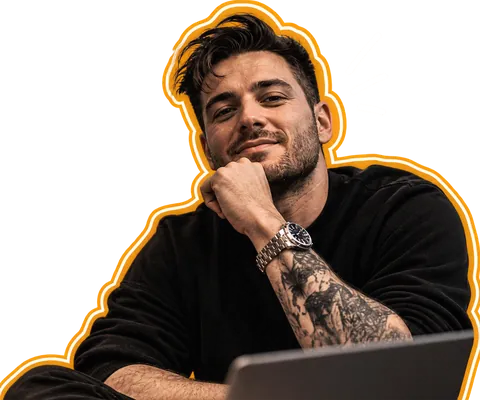
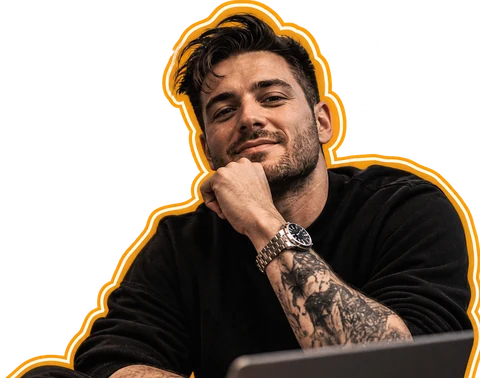
Fussportrait: Aermel links unten nicht mehr senkrecht abgeschnitten
Bilddatei unten um 42 px gekuerzt, damit die Kontur links wie rechts
schraeg auf die Trennlinie trifft. Seitenverhaeltnis 900 / 708.

Changed region(s): [[0.0, 0.0, 1.0, 1.0], [0.8438, 0.6693, 0.875, 0.6984], [0.8125, 0.6984, 0.8438, 0.7275]]

diff --git a/stil.css b/stil.css
@@ -2024,7 +2024,7 @@ body.langtakt .preis__neu{font-size:1em;opacity:1}
      aendert, misst das Verhaeltnis neu; es ist nicht mitgeprueft, nur
      weil es einmal stimmte. */
   max-height:clamp(240px,30vw,430px);
-  aspect-ratio:900 / 750;
+  aspect-ratio:900 / 708;
   background:url("bilder/fuss-person-900.webp") bottom right/contain no-repeat;
   /* Die Kontur steckt bereits im freigestellten Motiv. Der Schein
      daneben ist unserer: weich und rundherum, kein gezeichneter Rand —
@@ -4905,7 +4905,7 @@ p.brush{font-size:clamp(38px,4.4vw,72px)}
 .fuss__oben{display:block;max-width:var(--maxw);margin:0 auto;position:relative;
   padding-bottom:clamp(40px,4vw,64px);border-bottom:1px solid rgb(14 13 11 / .22);min-height:clamp(260px,25vw,380px)}
 .fuss__oben::after{content:"";position:absolute;right:0;bottom:0;z-index:-1;pointer-events:none;
-  width:clamp(260px,32vw,500px);aspect-ratio:900 / 750;
+  width:clamp(260px,32vw,500px);aspect-ratio:900 / 708;
   background:url("bilder/fuss-person-900.webp") bottom right/contain no-repeat}
 .fuss__reden{position:relative;z-index:1;max-width:min(760px,62%)}
 .fuss__reden h2{font-size:clamp(46px,7.2vw,124px);line-height:.92;margin:clamp(10px,1vw,18px) 0 clamp(26px,2.6vw,40px);white-space:nowrap}
@@ -5998,3 +5998,7 @@ h1.kf__titel em{font-style:normal;color:var(--violett)}
 /* Navigation kuerzer (Auftraggeber 23.11.2026: "viel leer"). Gilt auf
    allen Seiten; Raster Logo | Links | Knopf bleibt. */
 .nav__pille{max-width:min(var(--maxw), 1200px)}
+/* Fussportrait (24.11.2026): Die Bilddatei ist unten um 42 px gekuerzt.
+   Vorher lief der linke Aermel unter der Trennlinie aus dem linken
+   Bildrand, dort brach die Kontur senkrecht ab. Jetzt trifft sie links
+   wie rechts schraeg auf die Linie. Seitenverhaeltnis darum 900 / 708. */
